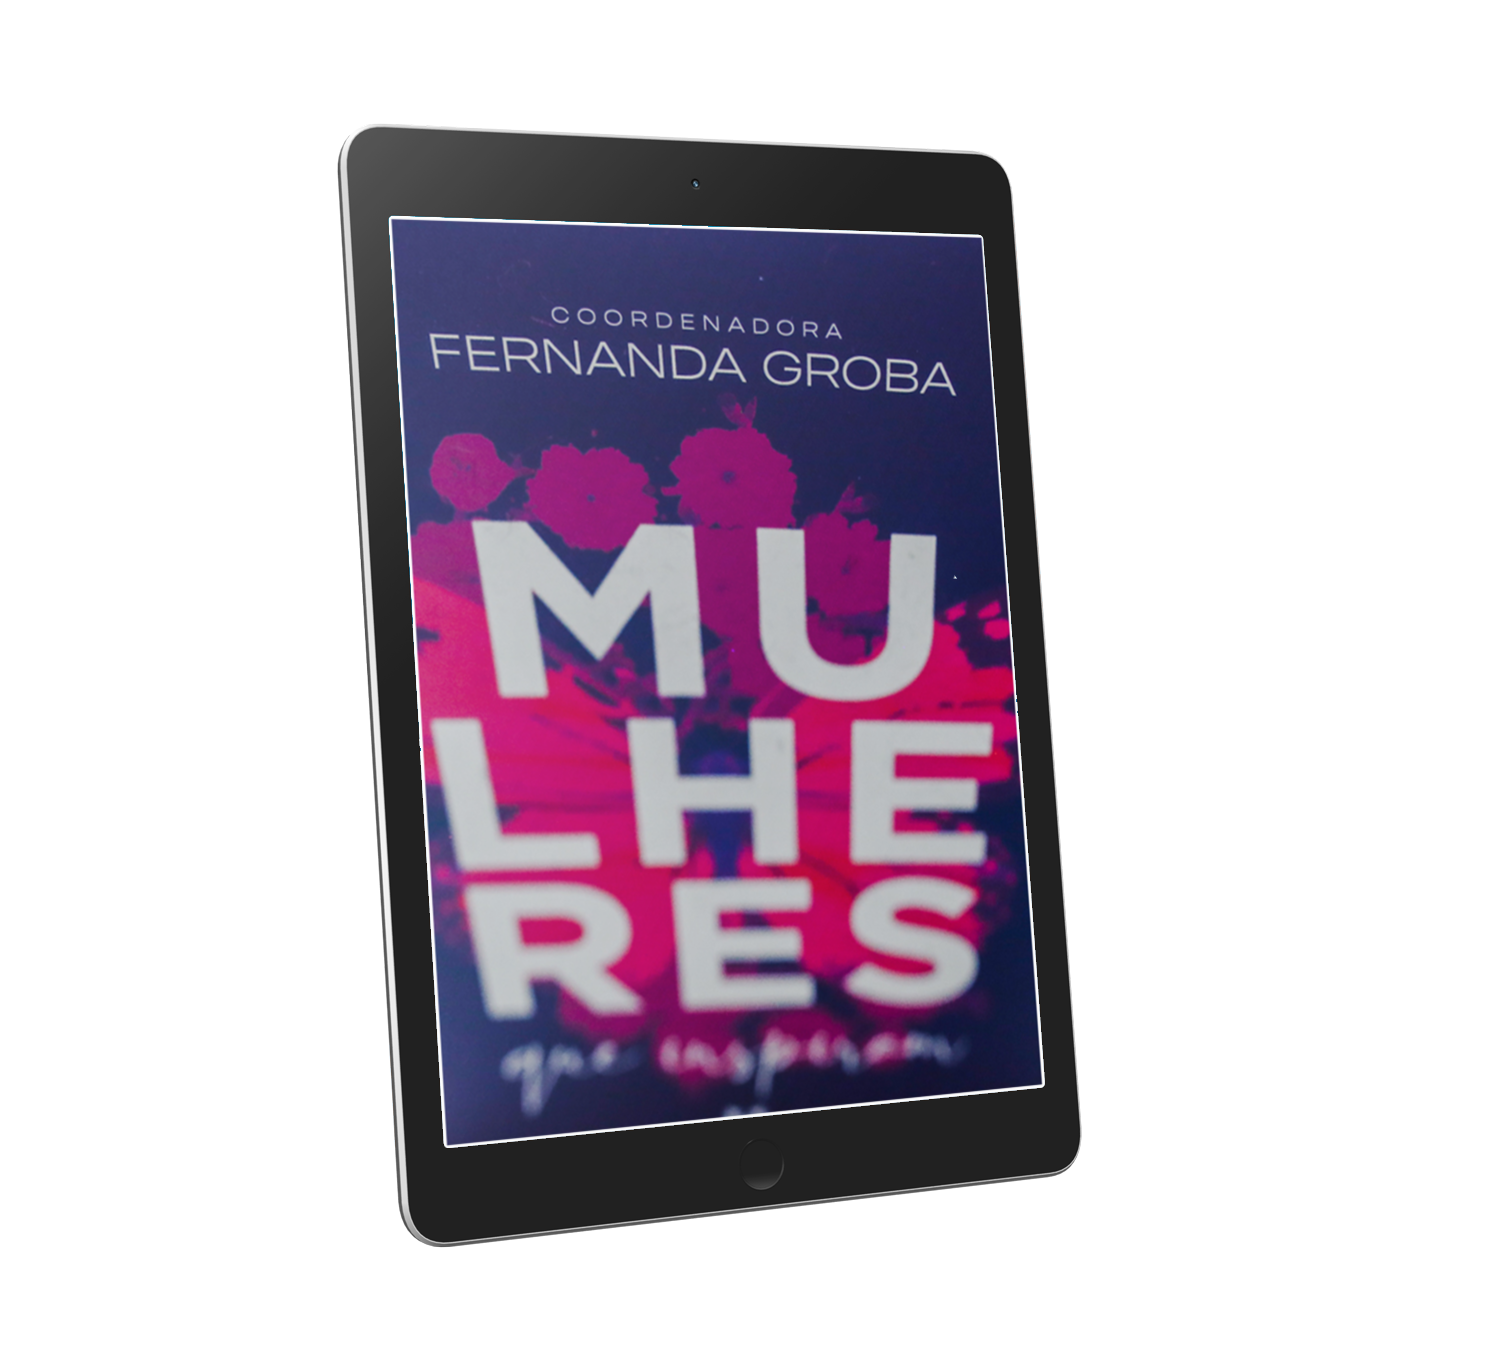
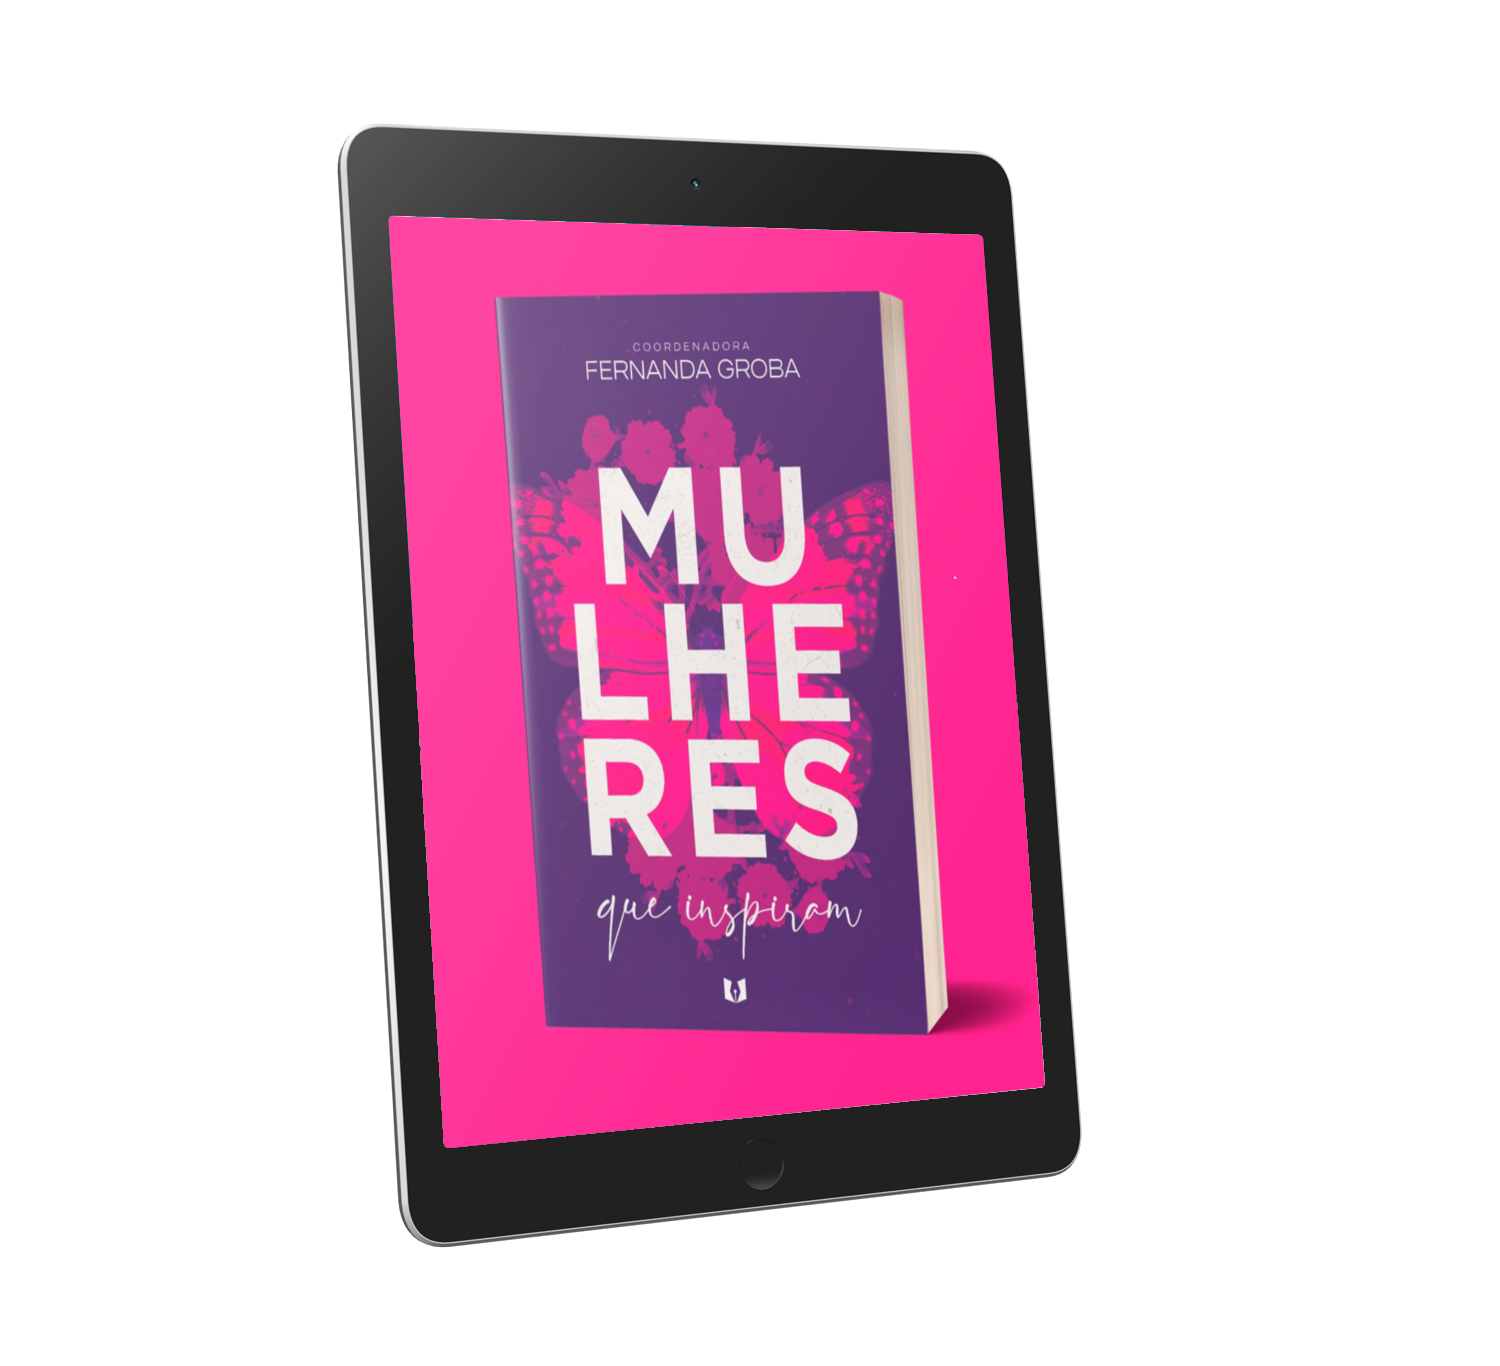
correçoes realizada p foto topo

Changed region(s): [[0.2453, 0.1537, 0.7053, 0.8609]]

diff --git a/index.html b/index.html
@@ -28,7 +28,7 @@
    <!-- header -->
   <header class="container-fluid logo   ">
       <div class="row  justify-content-center align-items-center ">
-          <div class="col- text-center mt-3 "><span class="mt-2 nome animated">Fernanda Broba</span> <div class="subtitulonome">As 15 mulheres que você precisa conhecer para transformar sua vida.</div></div>
+          <div class="col- text-center mt-3 "><span class="mt-2 nome ">Fernanda Groba</span> <div class="subtitulonome mt-2">As 15 mulheres que você precisa conhecer para transformar sua vida.</div></div>
          <div class="col  text-center  mt-2   "><img class="tamanhoimglogo" src="editada.png" alt=""></div>
         
       </div>
@@ -58,7 +58,7 @@
    <div class="container-fluid ">
       <div class="row">
          <div class="col ">
-            <img class="img-fluid" src="Tablet.png" alt="">
+            <img class="img-fluid" src="Tablet3.png" alt="">
         
            <div> <i class="bi bi-check   tamanhoiconslivro "></i><span class="estilocheck "> Além de todas as vantagens citadas acima, o <em><strong> Mulheres que Inspiram</strong>,</em> através de suas 15 histórias reais, vai te motivar a dar a volta por cima e realizar os seus sonhos.</span> </div>
             <div><i class="bi bi-check tamanhoiconslivro"></i> <span class="estilocheck"> Por ser um livro baseado em histórias reais, ele vai te ajudar a ter mais ousadia, autoconfiança e a entender o amor de Deus em sua vida.</span> </div>
